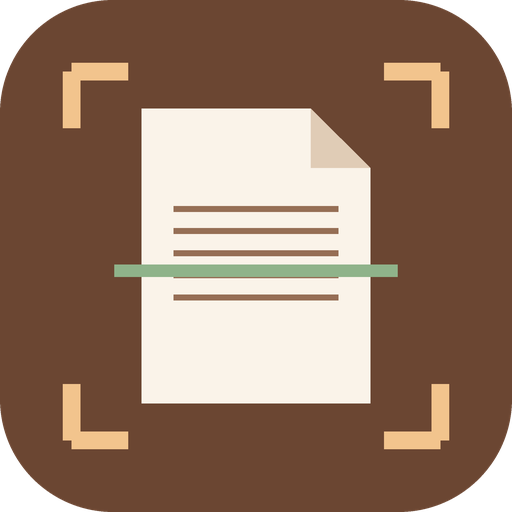
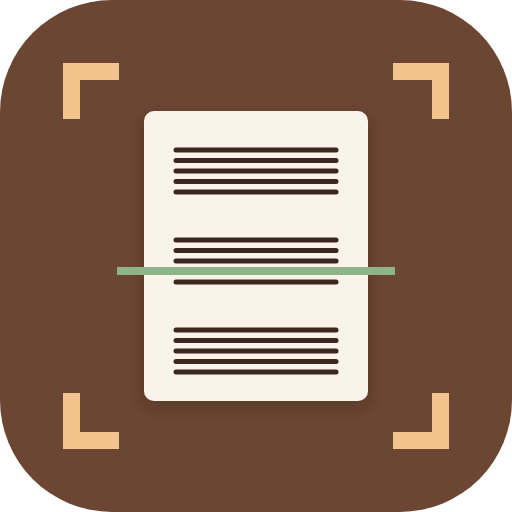
v.8

diff --git a/index.html b/index.html
@@ -271,12 +271,87 @@ input[type=file]{display:none}
 #burst .side svg{width:26px;height:26px}
 #burst .side[disabled]{opacity:.35}
 #burst .opt{display:flex;align-items:center;justify-content:space-between;background:rgba(255,255,255,.07);border-radius:12px;padding:10px 14px;font-size:14.5px}
+
+/* ===== 封面（v1.8，比照音樂聽力練習 App） ===== */
+#cover{background:var(--bg)}
+#cover .cv-scroll{flex:1;overflow-y:auto;-webkit-overflow-scrolling:touch;display:flex;flex-direction:column}
+.cv{flex:1;min-height:100%;display:flex;flex-direction:column;align-items:center;justify-content:center;text-align:center;position:relative;overflow:hidden;padding:calc(var(--st) + 28px) 20px calc(var(--sb) + 28px)}
+.cv-notes{position:absolute;inset:0;pointer-events:none;overflow:hidden}
+.cv-note{position:absolute;color:var(--cocoa);opacity:.10;line-height:1;font-family:"Times New Roman",serif;user-select:none}
+.cv-card{position:relative;z-index:1;max-width:540px;width:100%}
+.cv-art{display:block;margin:0 auto 25px}
+.cv-title{font-size:34px;font-weight:700;margin:0 0 6px;letter-spacing:.04em;color:var(--text)}
+.cv-sub{font-family:ui-monospace,Menlo,Consolas,monospace;font-size:13px;letter-spacing:.22em;color:var(--muted);margin-bottom:24px}
+.cv-msg{font-size:15px;line-height:1.95;color:var(--text);background:var(--surface);border:1px solid var(--line);border-radius:16px;padding:18px;margin:0 auto 26px;box-shadow:0 4px 16px rgba(74,47,34,.06)}
+.cv-start{font-weight:700;font-size:18px;padding:16px 44px;border-radius:999px;background:var(--cocoa);color:#fff;box-shadow:0 6px 20px rgba(74,47,34,.28);transition:transform .15s,filter .15s;touch-action:manipulation}
+.cv-start:active{filter:brightness(1.12);transform:translateY(-2px)}
+.cv-foot{margin-top:20px;font-size:13.5px;color:var(--muted)}
+.cv-author{margin-top:14px;font-size:13.5px;color:var(--muted);border-bottom:1px dashed var(--caramel);padding-bottom:1px}
+.cv-donate{margin-top:12px;display:inline-flex;align-items:center;gap:7px;font-weight:700;font-size:14.5px;padding:11px 26px;border-radius:999px;background:var(--danger);color:#fff;box-shadow:0 4px 14px rgba(180,83,63,.28);touch-action:manipulation}
+.cv-donate:active{filter:brightness(1.08);transform:translateY(-1px)}
+@media (max-height:640px){.cv-title{font-size:30px}.cv-msg{font-size:14px;padding:14px}.cv-art{width:60px;height:80px;margin-bottom:18px}}
+/* 贊助／作者彈窗 */
+.dmodal{position:fixed;inset:0;z-index:25;background:rgba(40,26,18,.55);padding:calc(var(--st) + 20px) 16px calc(var(--sb) + 20px);overflow-y:auto;-webkit-overflow-scrolling:touch;display:none}
+.dmodal.open{display:flex;align-items:flex-start;justify-content:center}
+.dbox{background:var(--bg);border:1px solid var(--line);border-radius:16px;margin:auto;max-width:400px;width:100%;padding:28px 22px 22px;text-align:center;box-shadow:0 20px 50px rgba(0,0,0,.28);-webkit-user-select:text;user-select:text}
+.dbox .dico{font-size:38px;line-height:1;color:var(--danger)}
+.dbox h3{font-size:22px;font-weight:700;margin:10px 0 8px;color:var(--text)}
+.dbox p{font-size:15px;color:var(--muted);line-height:1.8;margin:0 0 16px}
+.dlinks{display:flex;flex-direction:column;gap:10px;margin:6px 0 14px}
+.ditem{display:flex;align-items:center;justify-content:center;gap:9px;font-weight:700;font-size:15.5px;padding:13px 18px;border-radius:14px;text-decoration:none;border:1px solid var(--line);background:var(--surface);color:var(--text);touch-action:manipulation}
+.ditem:active{border-color:var(--cocoa);background:var(--surface2)}
+.ditem .ico{display:inline-flex;align-items:center}
+.jko-card{display:block;text-decoration:none;border:1px solid var(--line);border-radius:16px;overflow:hidden;background:#fff}
+.jko-card img{display:block;width:100%;max-width:270px;margin:14px auto 6px}
+.jko-label{display:block;font-weight:700;font-size:15px;color:#fff;background:var(--cocoa);padding:11px}
+.jko-acct{display:flex;align-items:center;justify-content:center;gap:8px;font-size:14px;color:var(--muted);margin:10px 0 2px}
+.jko-acct b,.bank-row b{color:var(--text);font-family:ui-monospace,Menlo,Consolas,monospace;letter-spacing:.03em}
+.copy-btn{font-size:13px;font-weight:700;color:var(--cocoa);background:var(--surface2);border:1px solid var(--line);border-radius:999px;padding:3px 12px;touch-action:manipulation}
+.copy-btn:active{background:var(--cocoa);color:#fff}
+.pay-note{font-size:14px;color:var(--text)!important;line-height:1.8;margin:10px 2px 6px!important}
+.form-link{display:block;font-size:14px;font-weight:700;color:var(--cocoa);background:var(--surface2);border:1px solid var(--line);border-radius:12px;padding:11px 12px;text-decoration:none;margin-top:4px}
+.bank-row{display:flex;align-items:center;gap:10px;background:var(--surface);border:1px solid var(--line);border-radius:12px;padding:12px 14px;font-size:15.5px}
+.bank-row .bk{font-size:13px;color:var(--muted);flex-shrink:0;width:34px;text-align:left}
+.bank-row b{flex:1;text-align:left}
+.sponsor-list{display:flex;flex-wrap:wrap;gap:8px;justify-content:center;padding:14px 10px;border:1px dashed var(--line);border-radius:12px}
+.sponsor-list span{display:inline-flex;align-items:center;min-height:34px;line-height:1;font-size:15px;font-weight:600;color:var(--text);background:var(--surface);border:1px solid var(--line);border-radius:999px;padding:0 14px}
+.line-inline{color:var(--danger);text-decoration:underline;text-underline-offset:3px;font-weight:600;white-space:nowrap}
+.d-dismiss{font-size:15.5px;color:var(--muted);text-decoration:underline;padding:6px 12px;touch-action:manipulation}
+.author-invite{font-size:14px!important;line-height:1.9!important;margin:2px 4px 14px!important}
+/* 設定裡的連結列 */
+.set-links{display:flex;gap:10px;margin:16px 0 4px}
+.set-links button{flex:1;padding:12px 8px;border-radius:12px;font-weight:700;font-size:15px;border:1px solid var(--line);background:var(--surface2);color:var(--cocoa)}
+.set-links .donate{background:var(--danger);border-color:var(--danger);color:#fff}
 </style>
 </head>
 <body>
 
+<!-- 封面（每次打開 App 先顯示） -->
+<section class="screen active" id="cover">
+  <div class="cv-scroll"><div class="cv">
+    <div class="cv-notes" aria-hidden="true">
+      <span class="cv-note" style="top:8%;left:9%;font-size:72px">♪</span>
+      <span class="cv-note" style="top:18%;right:11%;font-size:56px">♫</span>
+      <span class="cv-note" style="top:52%;left:6%;font-size:48px">♩</span>
+      <span class="cv-note" style="bottom:14%;left:16%;font-size:64px">𝄞</span>
+      <span class="cv-note" style="bottom:9%;right:14%;font-size:50px">♬</span>
+      <span class="cv-note" style="top:40%;right:8%;font-size:40px">♪</span>
+    </div>
+    <div class="cv-card">
+      <svg class="cv-art" viewBox="0 0 120 160" width="75" height="100" aria-hidden="true"><defs><filter id="cvsh" x="-20%" y="-20%" width="140%" height="140%"><feDropShadow dx="0" dy="3" stdDeviation="3" flood-color="#4A2F22" flood-opacity=".18"/></filter></defs><rect x="12" y="12" width="96" height="136" rx="7" fill="#FFFCF8" filter="url(#cvsh)"/><g stroke="#3A281E" stroke-width="0.9"><line x1="22" x2="98" y1="30.0" y2="30.0"/><line x1="22" x2="98" y1="33.2" y2="33.2"/><line x1="22" x2="98" y1="36.4" y2="36.4"/><line x1="22" x2="98" y1="39.6" y2="39.6"/><line x1="22" x2="98" y1="42.8" y2="42.8"/><line x1="22" x2="98" y1="56.0" y2="56.0"/><line x1="22" x2="98" y1="59.2" y2="59.2"/><line x1="22" x2="98" y1="62.4" y2="62.4"/><line x1="22" x2="98" y1="65.6" y2="65.6"/><line x1="22" x2="98" y1="68.8" y2="68.8"/><line x1="22" x2="98" y1="82.0" y2="82.0"/><line x1="22" x2="98" y1="85.2" y2="85.2"/><line x1="22" x2="98" y1="88.4" y2="88.4"/><line x1="22" x2="98" y1="91.6" y2="91.6"/><line x1="22" x2="98" y1="94.8" y2="94.8"/><line x1="22" x2="98" y1="108.0" y2="108.0"/><line x1="22" x2="98" y1="111.2" y2="111.2"/><line x1="22" x2="98" y1="114.4" y2="114.4"/><line x1="22" x2="98" y1="117.6" y2="117.6"/><line x1="22" x2="98" y1="120.8" y2="120.8"/><line x1="22" x2="98" y1="134.0" y2="134.0"/><line x1="22" x2="98" y1="137.2" y2="137.2"/><line x1="22" x2="98" y1="140.4" y2="140.4"/><line x1="22" x2="98" y1="143.6" y2="143.6"/><line x1="22" x2="98" y1="146.8" y2="146.8"/></g><path d="M2 20V2h18M100 2h18v18M118 140v18h-18M20 158H2v-18" fill="none" stroke="#C9935F" stroke-width="4"/><line x1="0" x2="120" y1="80" y2="80" stroke="#8FB38A" stroke-width="3.5"/></svg>
+      <h1 class="cv-title">伍敵樂譜掃描</h1>
+      <div class="cv-sub">SHEET MUSIC SCANNER</div>
+      <p class="cv-msg">這個工具完全免費，<br>掃描的資料只保存在本設備裡。<br>如果它對你瀏覽樂譜有幫助，<br>歡迎小額贊助支持後續開發與維護。</p>
+      <button class="cv-start" id="cvStart">開始掃描 →</button>
+      <div class="cv-foot">精確的攜帶式樂譜掃描神器</div>
+      <div><button class="cv-author" id="cvAuthor">作者：伍祐恆 Heng-Heng Wu ▸</button></div>
+      <div><button class="cv-donate" id="cvDonate">❤ 小額贊助</button></div>
+    </div>
+  </div></div>
+</section>
+
 <!-- 首頁 -->
-<section class="screen active" id="home">
+<section class="screen" id="home">
   <header class="bar">
     <h1>伍敵樂譜掃描</h1>
     <button class="ibtn" id="btnSettings" aria-label="設定"><svg viewBox="0 0 24 24" fill="none" stroke="currentColor" stroke-width="1.8" stroke-linecap="round" stroke-linejoin="round"><circle cx="12" cy="12" r="3"/><path d="M19.4 15a1.7 1.7 0 0 0 .3 1.8l.1.1a2 2 0 1 1-2.8 2.8l-.1-.1a1.7 1.7 0 0 0-1.8-.3 1.7 1.7 0 0 0-1 1.5V21a2 2 0 1 1-4 0v-.1a1.7 1.7 0 0 0-1.1-1.5 1.7 1.7 0 0 0-1.8.3l-.1.1a2 2 0 1 1-2.8-2.8l.1-.1a1.7 1.7 0 0 0 .3-1.8 1.7 1.7 0 0 0-1.5-1H3a2 2 0 1 1 0-4h.1a1.7 1.7 0 0 0 1.5-1.1 1.7 1.7 0 0 0-.3-1.8l-.1-.1a2 2 0 1 1 2.8-2.8l.1.1a1.7 1.7 0 0 0 1.8.3H9a1.7 1.7 0 0 0 1-1.5V3a2 2 0 1 1 4 0v.1a1.7 1.7 0 0 0 1 1.5 1.7 1.7 0 0 0 1.8-.3l.1-.1a2 2 0 1 1 2.8 2.8l-.1.1a1.7 1.7 0 0 0-.3 1.8V9a1.7 1.7 0 0 0 1.5 1H21a2 2 0 1 1 0 4h-.1a1.7 1.7 0 0 0-1.5 1z"/></svg></button>
@@ -424,6 +499,67 @@ input[type=file]{display:none}
 </section>
 
 <div id="sheetWrap"><div id="sheet"></div></div>
+
+<!-- 小額贊助彈窗（內容比照音樂聽力練習 App；管道清單 / 街口 / 銀行 / 贊助者名單） -->
+<div class="dmodal" id="donateModal">
+  <div class="dbox">
+    <div class="dico">❤</div>
+    <h3>支持這個工具</h3>
+    <div id="donateIntro">
+      <p>這個工具完全免費，你的支持會用於後續開發與維護，感謝你 🙏</p>
+      <p>贊助者會列入贊助者名單。</p>
+    </div>
+    <div class="dlinks" id="donate_">
+      <a class="ditem" href="https://portaly.cc/heng-heng.music/support" target="_blank" rel="noopener"><span class="ico">❤</span> Portaly 小額贊助</a>
+      <button type="button" class="ditem" data-panel="Jko"><span class="ico">📱</span> 街口支付贊助</button>
+      <button type="button" class="ditem" data-panel="Bank"><span class="ico">🏦</span> 銀行轉帳贊助</button>
+      <button type="button" class="ditem" id="sponsorEntry" data-panel="Sponsors" style="display:none"><span class="ico">💛</span> 贊助者名單</button>
+    </div>
+    <div class="dlinks" id="donateJko" style="display:none">
+      <a class="jko-card" href="https://service.jkopay.com/r/transfer?j=Transfer:902103863" target="_blank" rel="noopener">
+        <img src="jkopay-qr.png" alt="街口支付 QR 碼，Heng-Heng Music，帳號 902103863">
+        <span class="jko-label">開啟街口支付</span>
+      </a>
+      <div class="jko-acct">街口帳號 <b>902103863</b><button class="copy-btn" type="button" data-copy="902103863">複製</button></div>
+      <p class="pay-note">此 QR 為 <b>TWQR 共通碼</b>，可用街口支付，或<b>任一家銀行的網銀 App</b> 掃描付款。</p>
+      <a class="form-link" href="https://forms.gle/72e7fguVdx6RT3RZ9" target="_blank" rel="noopener">請填寫贊助者表單，讓我將您放上贊助者名單 ❤</a>
+      <a class="ditem" href="https://line.me/ti/p/LF15Mk2vef" target="_blank" rel="noopener"><span class="ico"><svg viewBox="0 0 24 24" width="18" height="18" aria-hidden="true"><path fill="#06C755" d="M12 2.6c-5.5 0-10 3.6-10 8.1 0 3.9 3.6 7.2 8.4 7.9.33.07.78.22.89.5.1.26.07.66.03.92 0 0-.12.72-.14.87-.05.26-.21 1 .88.55 1.1-.46 5.9-3.48 8.05-5.96 1.48-1.63 2.19-3.28 2.19-5.11 0-4.5-4.5-8.1-10-8.1z"/></svg></span> 祐恆的 LINE</a>
+      <button type="button" class="ditem" data-panel="">← 返回贊助管道</button>
+    </div>
+    <div class="dlinks" id="donateBank" style="display:none">
+      <div class="bank-row"><span class="bk">銀行</span><b>中國信託 (822)</b><button class="copy-btn" type="button" data-copy="822">複製代號</button></div>
+      <div class="bank-row"><span class="bk">帳號</span><b>163540424795</b><button class="copy-btn" type="button" data-copy="163540424795">複製</button></div>
+      <div class="bank-row"><span class="bk">戶名</span><b>伍○恆</b></div>
+      <p class="pay-note">轉帳僅需銀行代號與帳號；戶名供核對用。</p>
+      <a class="form-link" href="https://forms.gle/72e7fguVdx6RT3RZ9" target="_blank" rel="noopener">請填寫贊助者表單，讓我將您放上贊助者名單 ❤</a>
+      <a class="ditem" href="https://line.me/ti/p/LF15Mk2vef" target="_blank" rel="noopener"><span class="ico"><svg viewBox="0 0 24 24" width="18" height="18" aria-hidden="true"><path fill="#06C755" d="M12 2.6c-5.5 0-10 3.6-10 8.1 0 3.9 3.6 7.2 8.4 7.9.33.07.78.22.89.5.1.26.07.66.03.92 0 0-.12.72-.14.87-.05.26-.21 1 .88.55 1.1-.46 5.9-3.48 8.05-5.96 1.48-1.63 2.19-3.28 2.19-5.11 0-4.5-4.5-8.1-10-8.1z"/></svg></span> 祐恆的 LINE</a>
+      <button type="button" class="ditem" data-panel="">← 返回贊助管道</button>
+    </div>
+    <div class="dlinks" id="donateSponsors" style="display:none">
+      <div class="sponsor-list" id="sponsorList"></div>
+      <p class="pay-note">每一位同意公開的贊助者，都會列在贊助者名單中，感謝你的支持 🙏</p>
+      <button type="button" class="ditem" data-panel="">← 返回贊助管道</button>
+    </div>
+    <button type="button" class="ditem" style="width:100%;margin-bottom:12px" id="donateToAuthor"><span class="ico">🔗</span> 作者主頁</button>
+    <button type="button" class="d-dismiss" data-close>關閉</button>
+  </div>
+</div>
+
+<!-- 作者主頁彈窗 -->
+<div class="dmodal" id="authorModal">
+  <div class="dbox">
+    <div class="dico" style="color:var(--cocoa)">🎼</div>
+    <h3>作者主頁</h3>
+    <p>伍祐恆 Heng-Heng Wu</p>
+    <p class="author-invite">如果想精進鋼琴演奏、樂理、視唱、聽寫能力，歡迎來找我上課，可以加 LINE 私訊喔！</p>
+    <div class="dlinks">
+      <a class="ditem" href="https://line.me/ti/p/LF15Mk2vef" target="_blank" rel="noopener"><span class="ico"><svg viewBox="0 0 24 24" width="18" height="18" aria-hidden="true"><path fill="#06C755" d="M12 2.6c-5.5 0-10 3.6-10 8.1 0 3.9 3.6 7.2 8.4 7.9.33.07.78.22.89.5.1.26.07.66.03.92 0 0-.12.72-.14.87-.05.26-.21 1 .88.55 1.1-.46 5.9-3.48 8.05-5.96 1.48-1.63 2.19-3.28 2.19-5.11 0-4.5-4.5-8.1-10-8.1z"/></svg></span> 祐恆的 LINE</a>
+      <a class="ditem" href="https://portaly.cc/heng-heng.music" target="_blank" rel="noopener"><span class="ico">🔗</span> Portaly 主頁</a>
+      <a class="ditem" href="https://www.youtube.com/@HengHengWu" target="_blank" rel="noopener"><span class="ico"><svg viewBox="0 0 24 24" width="20" height="20" aria-hidden="true"><path fill="#FF0000" d="M23 7.6a3 3 0 0 0-2.1-2.1C19 5 12 5 12 5s-7 0-8.9.5A3 3 0 0 0 1 7.6 31.3 31.3 0 0 0 .5 12 31.3 31.3 0 0 0 1 16.4a3 3 0 0 0 2.1 2.1C5 19 12 19 12 19s7 0 8.9-.5a3 3 0 0 0 2.1-2.1A31.3 31.3 0 0 0 23.5 12 31.3 31.3 0 0 0 23 7.6z"/><path fill="#fff" d="M9.75 15.5l6-3.5-6-3.5z"/></svg></span> YouTube 頻道</a>
+    </div>
+    <button type="button" class="d-dismiss" data-close>關閉</button>
+  </div>
+</div>
 <div id="busy"><div class="box"><div class="spin"></div><div id="busyMsg">處理中…</div></div></div>
 <div id="toast"></div>
 <input type="file" id="fileCamera" accept="image/*" capture="environment">

diff --git a/app.js b/app.js
@@ -248,27 +248,28 @@ async function addPage(docId, blob, corners, curve) {
 }
 
 /* ---------- 畫面切換 ---------- */
-let current = 'home';
+let current = 'cover';
 const state = { docId: null, pageIndex: 0 };
 function show(name) {
   document.querySelectorAll('.screen').forEach((s) => s.classList.toggle('active', s.id === name));
   current = name;
   // 狀態列顏色跟著畫面：相機類畫面深色，其他米白
   const tc = document.querySelector('meta[name="theme-color"]');
-  if (tc) tc.setAttribute('content', ['live', 'crop', 'burst'].includes(name) ? '#1C130E' : '#FFFCF8');
+  if (tc) tc.setAttribute('content', ['live', 'crop', 'burst'].includes(name) ? '#1C130E' : name === 'cover' ? '#F6EFE6' : '#FFFCF8');
 }
 function go(name, push = true) {
   if (push) history.pushState({ s: name, doc: state.docId, i: state.pageIndex }, '');
   show(name);
 }
-history.replaceState({ s: 'home' }, '');
+history.replaceState({ s: 'cover' }, '');
 window.addEventListener('popstate', (e) => {
   const s = (e.state && e.state.s) || 'home';
   if (adj.open) closeAdjust();
   if (current === 'live') stopLive();
   if (current === 'crop' && cropCtx && cropCtx.onCancel) { const f = cropCtx.onCancel; cropCtx = null; f(true); }
   closeSheet();
-  if (s === 'home') { renderHome(); show('home'); }
+  if (s === 'cover') { show('cover'); }
+  else if (s === 'home') { renderHome(); show('home'); }
   else if (s === 'doc') { state.docId = e.state.doc; renderDoc(); show('doc'); }
   else if (s === 'library') { renderLibrary(); show('library'); }
   else if (s === 'burst') { renderBurst(); show('burst'); }
@@ -1976,7 +1977,10 @@ $('#btnSettings').onclick = () => {
     <div class="seg" id="setUp">${[['auto', '自動'], ['always', '一律'], ['off', '關閉']].map(([k, n]) => `<button data-k="${k}" class="${settings.upscale === k ? 'on' : ''}">${n}</button>`).join('')}</div>
     <div class="note">所有掃描只存在這支手機的瀏覽器裡，不會上傳。<br>即時掃描：Android 會以相機全解析度拍攝；iPhone 受限於網頁相機串流解析度。要最清楚的畫質請用「高畫質拍照」。</div>
     <div class="note" id="storeInfo"></div>
-    <div class="note" style="font-size:11px;opacity:.7">${viewportInfo()}・v1.7</div>`, (s) => {
+    <div class="set-links"><button class="donate" id="setDonate">❤ 小額贊助</button><button id="setCover">← 回封面</button></div>
+    <div class="note" style="font-size:11px;opacity:.7">${viewportInfo()}・v1.8</div>`, (s) => {
+    s.querySelector('#setDonate').onclick = () => { closeSheet(); openDonate(); };
+    s.querySelector('#setCover').onclick = () => { closeSheet(); goCover(); };
     s.querySelectorAll('#setMode button').forEach((b) => b.onclick = () => {
       settings.mode = b.dataset.k; saveSettings();
       s.querySelectorAll('#setMode button').forEach((x) => x.classList.toggle('on', x === b));
@@ -1994,6 +1998,46 @@ $('#btnSettings').onclick = () => {
   });
 };
 
+/* ---------- 封面、小額贊助、作者主頁（v1.8） ----------
+   封面不進瀏覽紀錄：開始掃描／回封面都用 replaceState，返回鍵行為和以前一樣 */
+function goCover() { history.replaceState({ s: 'cover' }, ''); show('cover'); }
+$('#cvStart').onclick = () => { history.replaceState({ s: 'home' }, ''); renderHome(); show('home'); };
+$('#cvDonate').onclick = () => openDonate();
+$('#cvAuthor').onclick = () => openModal('authorModal');
+
+/* 贊助者名單：要新增名字，複製下面的範例改名字即可（名單是空的時候不顯示「贊助者名單」按鈕）
+   例：{ name: '王小明' }, */
+const SPONSORS = [
+];
+function openModal(id) { $('#' + id).classList.add('open'); }
+function closeModal(id) { $('#' + id).classList.remove('open'); }
+function donatePanel(which) {
+  $('#donateIntro').style.display = which ? 'none' : '';
+  ['', 'Jko', 'Bank', 'Sponsors'].forEach((k) => { $('#donate' + (k || '_')).style.display = which === k ? 'flex' : 'none'; });
+  if (which === 'Sponsors') {
+    $('#sponsorList').innerHTML = SPONSORS.map((x) => `<span>${String(x.name).replace(/[&<>"]/g, (c) => ({ '&': '&amp;', '<': '&lt;', '>': '&gt;', '"': '&quot;' }[c]))}</span>`).join('');
+  }
+  $('#donateModal').scrollTop = 0;
+}
+function openDonate() { donatePanel(''); openModal('donateModal'); }
+$('#sponsorEntry').style.display = SPONSORS.length ? '' : 'none';
+document.querySelectorAll('.dmodal').forEach((m) => {
+  m.addEventListener('click', (e) => {
+    if (e.target === m || e.target.closest('[data-close]')) { closeModal(m.id); return; }
+    const pb = e.target.closest('[data-panel]'); if (pb) { donatePanel(pb.dataset.panel); return; }
+    const cb = e.target.closest('[data-copy]'); if (cb) { copyText(cb, cb.dataset.copy); }
+  });
+});
+$('#donateToAuthor').onclick = () => { closeModal('donateModal'); openModal('authorModal'); };
+function copyText(btn, text) {
+  const done = () => { const t = btn.textContent; btn.textContent = '已複製'; setTimeout(() => { btn.textContent = t; }, 1400); };
+  const fallback = () => {
+    try { const ta = document.createElement('textarea'); ta.value = text; ta.style.cssText = 'position:fixed;opacity:0'; document.body.appendChild(ta); ta.select(); document.execCommand('copy'); ta.remove(); } catch (_) {}
+    done();
+  };
+  if (navigator.clipboard && navigator.clipboard.writeText) navigator.clipboard.writeText(text).then(done, fallback); else fallback();
+}
+
 /* ---------- 畫面資訊（除錯用，顯示在設定最下方） ----------
    iOS 26 主畫面 App 底部空白的修正在 index.html 的 CSS（html min-height） */
 const isStandalone = () => navigator.standalone === true || matchMedia('(display-mode: standalone)').matches;
@@ -2008,5 +2052,6 @@ function viewportInfo() {
 
 /* ---------- 啟動 ---------- */
 renderHome();
+show('cover');
 if (navigator.storage && navigator.storage.persist) navigator.storage.persist().catch(() => {});
 if ('serviceWorker' in navigator && location.protocol === 'https:') navigator.serviceWorker.register('sw.js').catch(() => {});

diff --git a/sw.js b/sw.js
@@ -1,7 +1,7 @@
 /* 伍敵樂譜掃描 — Service Worker（離線可用） */
-const VERSION = 'cocoscan-v8';
+const VERSION = 'cocoscan-v9';
 const ASSETS = [
-  './', 'index.html', 'app.js', 'worker.js', 'lib/opencv.js', 'lib/Sortable.min.js', 'manifest.webmanifest',
+  './', 'index.html', 'app.js', 'worker.js', 'lib/opencv.js', 'lib/Sortable.min.js', 'manifest.webmanifest', 'jkopay-qr.png',
   'icons/icon-192.png', 'icons/icon-512.png', 'icons/icon-maskable-512.png', 'icons/apple-touch-icon.png',
 ];
 

diff --git a/README.md b/README.md
@@ -49,3 +49,13 @@
 
 - 主畫面名稱改為「伍敵掃描」，同樣要刪掉主畫面上的 App 再重新加入才會更新（刪除前先匯出想保留的掃描）。
 - 新增分享預覽（og-image.png）：在 LINE、Facebook 分享網址會顯示標題、說明與預覽圖。這些平台會暫存舊的預覽，換新後可能要過一陣子才更新。
+
+## 1.8 版：封面、小額贊助、新圖示（需要重新加入主畫面）
+
+- 打開 App 會先看到封面，按「開始掃描」進入首頁；設定最下方可以回封面或開啟小額贊助。
+- 換了新的 App 圖示。iOS 只在「加入主畫面」時讀取圖示，所以要：
+  1. 先在舊版 App 裡，把想保留的掃描匯出成 PDF（刪除主畫面 App 會一併清除裡面的掃描）。
+  2. 上傳 1.8 版檔案到 GitHub（記得包含新的 `jkopay-qr.png` 與 `icons/` 資料夾）。
+  3. 在主畫面長按舊的 App 刪除。
+  4. 用 Safari 重新打開網址 → 分享 → 加入主畫面。
+- 分享預覽圖也換了新圖示，LINE、Facebook 可能要過一陣子才會更新。
